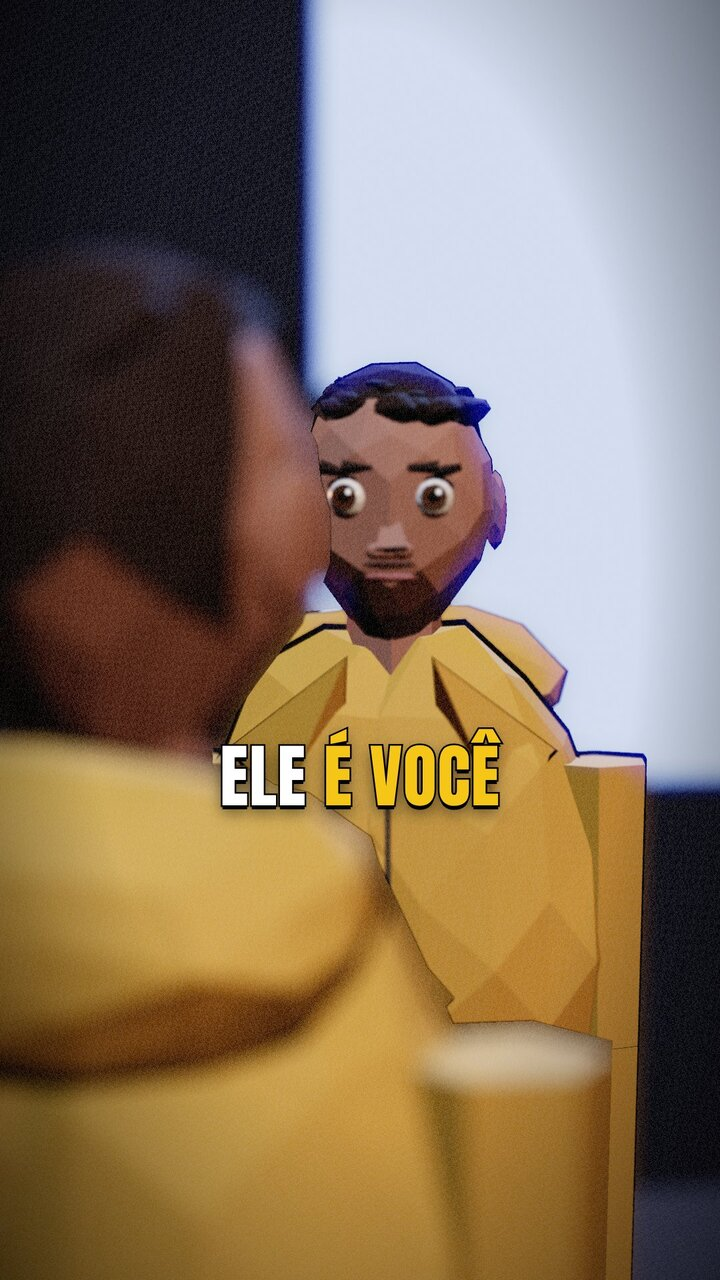
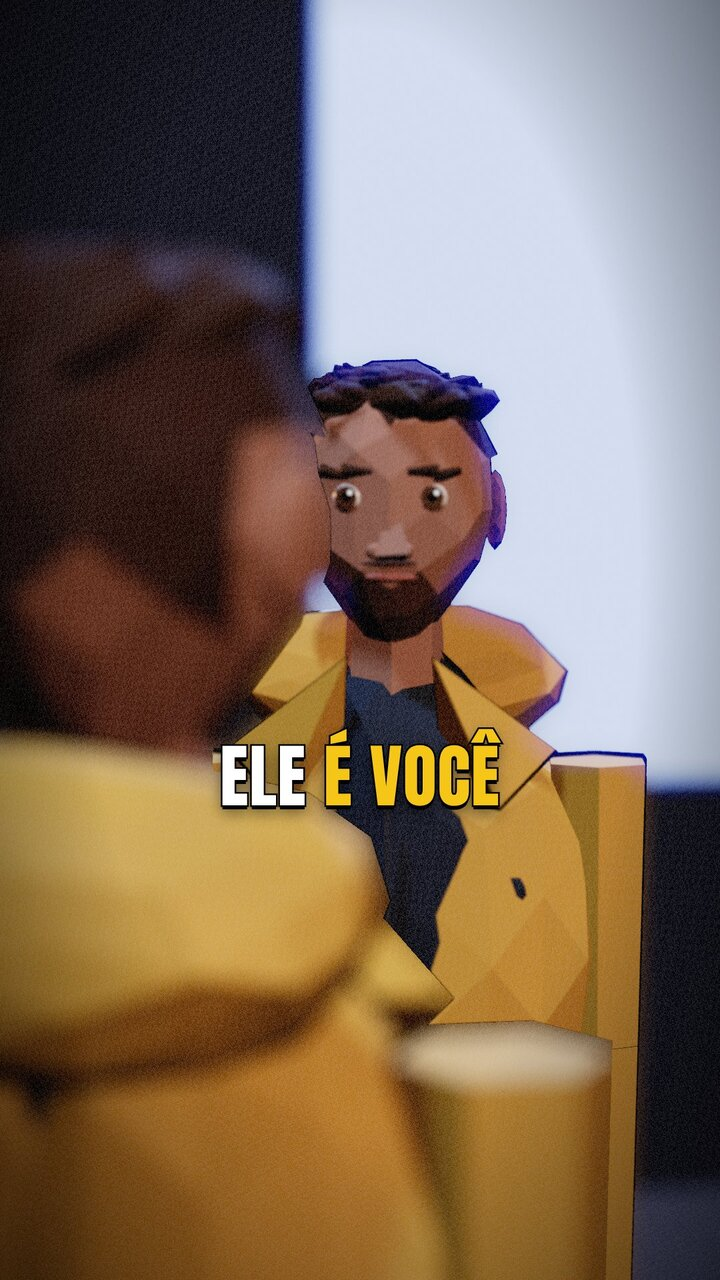
Prévia R11 final: facetas pintadas, sombras, rosto e mãos refeitos
Claude-Session: https://claude.ai/code/session_015xHWxAZ1U5ivbKZCPgUV8r

diff --git a/videos/_previa-r11/assets/lib/lowpoly.js b/videos/_previa-r11/assets/lib/lowpoly.js
@@ -3,14 +3,27 @@
 import * as THREE from "./three.module.js";
 
 export const COR = {
-  pele: 0xb07c62, peleSombra: 0x8a5a42, cabelo: 0x3a2618, barba: 0x4a3020,
+  pele: 0xb07c62, peleSombra: 0x8a5a42, cabelo: 0x4a2c18, barba: 0x3e2818,
   jaqueta: 0xd9a21e, camisa: 0x2c3442, jeans: 0x23324f, tenis: 0x1c1c22,
   esclera: 0xf2ede4, iris: 0x6b4423, pupila: 0x0d0805, contorno: 0x120c08,
 };
 
 export function mulberry32(a) { return () => { a |= 0; a = (a + 0x6d2b79f5) | 0; let t = Math.imul(a ^ (a >>> 15), 1 | a); t = (t + Math.imul(t ^ (t >>> 7), 61 | t)) ^ t; return ((t ^ (t >>> 14)) >>> 0) / 4294967296; }; }
 
-export const mat = (c, rough = 0.78, extra = {}) => new THREE.MeshStandardMaterial({ color: c, roughness: rough, metalness: 0, flatShading: true, ...extra });
+// facetas com variação de tom estável (hash da normal da faceta no espaço do objeto), como pintura
+function pintado(m, k = 0.16) {
+  m.onBeforeCompile = (sh) => {
+    sh.vertexShader = sh.vertexShader.replace("#include <common>", "#include <common>\nvarying vec3 vObj;").replace("#include <begin_vertex>", "#include <begin_vertex>\nvObj = position;");
+    sh.fragmentShader = sh.fragmentShader.replace("#include <common>", "#include <common>\nvarying vec3 vObj;")
+      .replace("#include <normal_fragment_maps>", `#include <normal_fragment_maps>
+        { vec3 fn = normalize(cross(dFdx(vObj), dFdy(vObj))); fn *= sign(fn.y + fn.x * 0.37 + fn.z * 0.11 + 1e-4);
+          float hz = fract(sin(dot(floor(fn * 9.0 + 0.5), vec3(12.9898, 78.233, 37.719))) * 43758.5453);
+          diffuseColor.rgb *= 1.0 + (hz - 0.5) * ${k.toFixed(3)}; }`);
+  };
+  m.customProgramCacheKey = () => "pintado" + k;
+  return m;
+}
+export const mat = (c, rough = 0.78, extra = {}) => pintado(new THREE.MeshStandardMaterial({ color: c, roughness: rough, metalness: 0, flatShading: true, ...extra }));
 const matContorno = new THREE.MeshBasicMaterial({ color: COR.contorno, side: THREE.BackSide });
 
 // casco invertido = traço de ilustração
@@ -38,7 +51,7 @@ const gauss = (d2, s) => Math.exp(-d2 / (s * s));
 function geoCranio(seed) {
   return facetado(2, (v) => {
     const { x, y, z } = v;
-    v.x *= 0.84; v.y *= 1.14; v.z *= 0.98;
+    v.x *= 0.83; v.y *= 1.16; v.z *= 0.98;
     if (y < -0.1) { const k = Math.min(1, (-y - 0.1) / 0.9); v.x *= 1 - 0.42 * k ** 1.1; if (z < 0.2) v.z *= 1 - 0.45 * k; }
     if (z > 0.55) v.z = 0.55 + (v.z - 0.55) * 0.6;                                           // rosto mais plano
     if (z > 0) {
@@ -70,20 +83,20 @@ function olhoR11(r, cIris = COR.iris, cPele = COR.pele) {
   sup.add(new THREE.Mesh(new THREE.SphereGeometry(r * 1.07, 12, 6, 0, Math.PI * 2, 0, Math.PI / 2), mat(cPele)));
   const cil = new THREE.Mesh(new THREE.TorusGeometry(r * 1.07, r * 0.09, 3, 14, Math.PI), new THREE.MeshBasicMaterial({ color: 0x140a06 }));
   cil.rotation.x = Math.PI / 2; sup.add(cil);
-  const inf = new THREE.Mesh(new THREE.SphereGeometry(r * 1.05, 12, 4, 0, Math.PI * 2, Math.PI * 0.72, Math.PI * 0.28), mat(cPele)); g.add(inf);
+  const inf = new THREE.Mesh(new THREE.SphereGeometry(r * 1.05, 12, 4, 0, Math.PI * 2, Math.PI * 0.62, Math.PI * 0.38), mat(cPele)); g.add(inf);
   return { g, globo, sup, olhar(ax, ay) { globo.rotation.set(-ay, ax, 0); }, abrir(k) { sup.rotation.x = -0.25 - 1.15 * k; } };
 }
 function cabecaR11({ seed, pele, cabelo, barba, iris = COR.iris }) {
   const H = new THREE.Group(), pm = mat(pele, 0.72);
   const cr = new THREE.Mesh(geoCranio(seed), pm); contorno(cr, 0.012); H.add(cr);
   // nariz: pirâmide com aresta para frente + asas
-  const nz = new THREE.Mesh(new THREE.ConeGeometry(0.17, 0.52, 4, 1), pm); nz.rotation.set(-0.32, Math.PI / 4, 0); nz.scale.set(0.9, 1, 1.25); nz.position.set(0, -0.08, 0.7); H.add(nz);
+  const nz = new THREE.Mesh(new THREE.ConeGeometry(0.17, 0.6, 4, 1), pm); nz.rotation.set(-0.3, Math.PI / 4, 0); nz.scale.set(0.85, 1, 1.4); nz.position.set(0, -0.1, 0.7); H.add(nz);
   for (const s of [1, -1]) { const a = new THREE.Mesh(facetado(1, () => {}, seed + s, 0.1), pm); a.scale.set(0.09, 0.07, 0.08); a.position.set(s * 0.11, -0.32, 0.74); H.add(a); }
   const narina = new THREE.Mesh(new THREE.BoxGeometry(0.2, 0.02, 0.06), new THREE.MeshBasicMaterial({ color: 0x3a1a10 })); narina.position.set(0, -0.37, 0.76); H.add(narina);
   // orelhas
   for (const s of [1, -1]) { const o = new THREE.Mesh(facetado(1, (v) => { v.x *= 0.35; v.y *= 1.35; v.z *= 0.9; }, seed + 9 + s), pm); contorno(o, 0.04); o.scale.setScalar(0.24); o.position.set(s * 0.83, 0.0, -0.08); o.rotation.y = s * 0.25; H.add(o); }
   // olhos
-  const olhos = [1, -1].map((s) => { const o = olhoR11(0.175, iris, pele); o.g.position.set(s * 0.33, 0.1, 0.64); o.g.rotation.y = s * 0.16; H.add(o.g); return o; });
+  const olhos = [1, -1].map((s) => { const o = olhoR11(0.15, iris, pele); o.g.position.set(s * 0.32, 0.1, 0.62); o.g.rotation.y = s * 0.16; H.add(o.g); return o; });
   // sobrancelhas grossas (2 prismas cada)
   const bm = mat(cabelo, 0.95), somb = [1, -1].map((s) => {
     const g = new THREE.Group(); g.position.set(s * 0.33, 0.36, 0.74); H.add(g);
@@ -93,24 +106,24 @@ function cabecaR11({ seed, pele, cabelo, barba, iris = COR.iris }) {
   });
   // boca: lábios + abertura + dentes
   const boca = new THREE.Group(); boca.position.set(0, -0.53, 0.72); H.add(boca);
-  const lab = new THREE.Mesh(facetado(1, () => {}, seed + 3, 0.1), mat(0xa8665a, 0.55)); lab.scale.set(0.19, 0.04, 0.055); boca.add(lab);
+  const lab = new THREE.Mesh(facetado(1, () => {}, seed + 3, 0.1), mat(0xb8705e, 0.5)); lab.scale.set(0.18, 0.045, 0.06); boca.add(lab);
   const abre = new THREE.Mesh(new THREE.CircleGeometry(1, 8), new THREE.MeshBasicMaterial({ color: 0x1e0806 })); abre.position.z = 0.072; boca.add(abre);
   const dentes = new THREE.Mesh(new THREE.BoxGeometry(0.22, 0.05, 0.02), mat(0xeee6d8, 0.4)); dentes.position.set(0, 0.03, 0.074); boca.add(dentes);
   // barba por fazer + bigode
   if (barba) {
     const bc = barba === true ? COR.barba : barba;
     const st = new THREE.Mesh(recorte(geoCranio(seed), (x, y, z) => z > -0.15 && y < -0.28 - 0.25 * Math.max(0, z - 0.3) + 0.0 && !(Math.abs(x) < 0.2 && y > -0.5 && y < -0.38), 1.012), mat(bc, 0.95, { transparent: true, opacity: 0.72 })); H.add(st);
-    const big = new THREE.Mesh(facetado(1, (v) => { v.y *= 0.25; }, seed + 5, 0.2), mat(bc, 0.95, { transparent: true, opacity: 0.85 })); big.scale.set(0.22, 0.13, 0.06); big.position.set(0, -0.43, 0.74); H.add(big);
+    const big = new THREE.Mesh(facetado(1, (v) => { v.y *= 0.25; }, seed + 5, 0.2), mat(bc, 0.95, { transparent: true, opacity: 0.85 })); big.scale.set(0.24, 0.1, 0.06); big.position.set(0, -0.42, 0.75); H.add(big);
   }
   // cabelo: casca acima da linha do cabelo + mechas facetadas
   const cm = mat(cabelo, 0.85);
-  const cap = new THREE.Mesh(recorte(geoCranio(seed), (x, y, z) => y > 0.5 + 0.2 * z - 0.1 * Math.abs(x) || (z < -0.3 && y > -0.4), 1.07), cm); contorno(cap, 0.015); H.add(cap);
+  const cap = new THREE.Mesh(recorte(geoCranio(seed), (x, y, z) => y > 0.36 + 0.24 * z - 0.12 * Math.abs(x) || (z < -0.3 && y > -0.45), 1.07), cm); contorno(cap, 0.015); H.add(cap);
   const rr = mulberry32(seed * 7 + 3);
-  for (let i = 0; i < 26; i++) {
-    const a = rr() * Math.PI * 2, rad = 0.15 + rr() * 0.6;
+  for (let i = 0; i < 34; i++) {
+    const a = rr() * Math.PI * 2, rad = 0.12 + rr() * 0.68;
     const m = new THREE.Mesh(facetado(1, (v) => { v.y *= 1.7; v.z *= 0.55; if (v.y > 0) { v.x *= 1 - v.y * 0.35; v.z *= 1 - v.y * 0.35; } }, seed + 60 + i, 0.25), cm); contorno(m, 0.04);
     const px = Math.cos(a) * rad * 0.85, pz = Math.sin(a) * rad * 0.85;
-    m.position.set(px, 1.02 - rad * 0.32, pz); m.scale.setScalar(0.2 + rr() * 0.06);
+    m.position.set(px, 1.08 - rad * 0.3, pz); m.scale.setScalar(0.23 + rr() * 0.07);
     m.rotation.set(1.25 + pz * 0.25 + rr() * 0.25, Math.atan2(px, pz) * 0.2 + (rr() - 0.5) * 0.5, -px * 0.7 + (rr() - 0.5) * 0.4); H.add(m);
   }
   function rosto(e, olhar) {
@@ -136,8 +149,8 @@ export function pessoa({ longo = false, seed = 1, pele = COR.pele, cabelo = COR.
   tor.scale.set(0.21, 0.24, 0.2); tor.position.y = 1.15; tronco.add(tor);
   const jm = mat(jaqueta, 0.7);
   for (const s of [1, -1]) {
-    const lado = contorno(new THREE.Mesh(facetado(2, (v) => { v.y *= 1.5; v.z *= 0.68; if (v.x * s < -0.25) v.x = -0.25 * s; }, seed + 30 + s, 0.09), jm), 0.02);
-    lado.scale.set(0.225, 0.25, 0.215); lado.position.set(s * 0.035, 1.14, -0.005); tronco.add(lado);
+    const lado = contorno(new THREE.Mesh(facetado(2, (v) => { v.y *= 1.5; v.z *= 0.62; if (v.x * s < -0.25) v.x = -0.25 * s; if (v.y > 0.8) v.y = 0.8 + (v.y - 0.8) * 0.5 - 0.12 * Math.abs(v.x); }, seed + 30 + s, 0.09), jm), 0.02);
+    lado.scale.set(0.215, 0.255, 0.2); lado.position.set(s * 0.035, 1.14, -0.005); tronco.add(lado);
     const gola = contorno(new THREE.Mesh(new THREE.ConeGeometry(0.07, 0.17, 4), jm), 0.04);
     gola.position.set(s * 0.085, 1.42, 0.08); gola.rotation.set(0.5, 0, s * 0.45); tronco.add(gola);
   }
@@ -149,7 +162,9 @@ export function pessoa({ longo = false, seed = 1, pele = COR.pele, cabelo = COR.
     const sup = contorno(new THREE.Mesh(new THREE.CylinderGeometry(0.062, 0.055, 0.32, 6), jm), 0.04); sup.position.y = -0.16; om.add(sup);
     const cot = new THREE.Group(); cot.position.y = -0.32; om.add(cot);
     const inf = contorno(new THREE.Mesh(new THREE.CylinderGeometry(0.055, 0.048, 0.3, 6), jm), 0.04); inf.position.y = -0.15; cot.add(inf);
-    const mao = contorno(new THREE.Mesh(facetado(1, (v) => { v.y *= 1.3; v.z *= 0.6; }, seed + 50 + s, 0.15), mat(pele)), 0.05); mao.scale.setScalar(0.055); mao.position.y = -0.34; cot.add(mao);
+    const mao = contorno(new THREE.Mesh(facetado(1, (v) => { v.y *= 1.3; v.z *= 0.6; }, seed + 50 + s, 0.15), mat(pele)), 0.05); mao.scale.set(0.05, 0.05, 0.045); mao.position.y = -0.33; cot.add(mao);
+    for (let f = 0; f < 4; f++) { const d = contorno(new THREE.Mesh(new THREE.BoxGeometry(0.018, 0.07, 0.02), mat(pele)), 0.12); d.position.set((f - 1.5) * 0.02, -0.39, 0.01); d.rotation.x = 0.25; cot.add(d); }
+    const pol = contorno(new THREE.Mesh(new THREE.BoxGeometry(0.02, 0.055, 0.02), mat(pele)), 0.12); pol.position.set(-s * 0.035, -0.34, 0.025); pol.rotation.z = s * 0.6; cot.add(pol);
     return { om, cot, mao };
   });
   const pernas = [1, -1].map((s) => {
@@ -162,9 +177,9 @@ export function pessoa({ longo = false, seed = 1, pele = COR.pele, cabelo = COR.
   });
   if (!corpo) pernas.forEach((p) => (p.q.visible = false));
   const EM = {
-    calmo: { br: 0.0, by: 0.34, bo: [1, 0.3], ab: 0.7, ol: [0, 0.05] },
-    medo: { br: -0.28, by: 0.41, bo: [0.85, 1.2], ab: 0.86, ol: [0.1, 0.05] },
-    panico: { br: -0.42, by: 0.45, bo: [1.1, 2.4], ab: 1.12, ol: [0.3, 0.1] },
+    calmo: { br: 0.0, by: 0.31, bo: [1, 0.3], ab: 0.62, ol: [0, 0.05] },
+    medo: { br: -0.28, by: 0.38, bo: [0.85, 1.2], ab: 0.78, ol: [0.1, 0.05] },
+    panico: { br: -0.42, by: 0.42, bo: [1.1, 2.4], ab: 1.12, ol: [0.3, 0.1] },
     triste: { br: -0.32, by: 0.36, bo: [0.8, 0.4], ab: 0.5, ol: [0, -0.25] },
     foco: { br: 0.22, by: 0.31, bo: [0.8, 0.2], ab: 0.55, ol: [0, 0] },
   };
@@ -219,11 +234,13 @@ export function molecula(tipo = "N2", seed = 1, nuvem = 0.5) {
 export function palco(canvas, { fov = 32, fundo = 0x14100c, foco = 1.5, faixa = 1.2, desfoque = 14, grao = 0.05, sat = 0.9 } = {}) {
   const W = 1080, Hh = 1920;
   const r = new THREE.WebGLRenderer({ canvas, antialias: false, preserveDrawingBuffer: true });
+  r.shadowMap.enabled = true; r.shadowMap.type = THREE.PCFSoftShadowMap;
   r.setPixelRatio(1); r.setSize(W, Hh, false); r.toneMapping = THREE.ACESFilmicToneMapping; r.toneMappingExposure = 1.1; r.outputColorSpace = THREE.SRGBColorSpace;
   const S = new THREE.Scene(); S.background = new THREE.Color(fundo);
   const cam = new THREE.PerspectiveCamera(fov, W / Hh, 0.01, 400);
   const hemi = new THREE.HemisphereLight(0x9fb4d8, 0x2a1a10, 0.5); S.add(hemi);
   const fria = new THREE.DirectionalLight(0xa9c6ee, 2.6); fria.position.set(-1.2, 4, 1.2); S.add(fria);
+  fria.castShadow = true; fria.shadow.mapSize.set(2048, 2048); fria.shadow.bias = -0.0004; fria.shadow.normalBias = 0.01; fria.shadow.radius = 4; Object.assign(fria.shadow.camera, { left: -4, right: 4, top: 4, bottom: -4, near: 0.1, far: 20 });
   const quente = new THREE.DirectionalLight(0xffd2aa, 1.7); quente.position.set(1.2, 1.6, 3); S.add(quente);
   const rim = new THREE.DirectionalLight(0x8fb4ff, 2.4); rim.position.set(1.5, 1.5, -3); S.add(rim);
   const rim2 = new THREE.DirectionalLight(0xffa860, 1.2); rim2.position.set(-2, 0.5, -2.5); S.add(rim2);
@@ -256,7 +273,7 @@ export function palco(canvas, { fov = 32, fundo = 0x14100c, foco = 1.5, faixa = 
       }` });
   const quad = new THREE.Mesh(new THREE.PlaneGeometry(2, 2), pos); quad.frustumCulled = false;
   const S2 = new THREE.Scene(); S2.add(quad); const cam2 = new THREE.OrthographicCamera(-1, 1, 1, -1, 0, 1);
-  return { r, S, cam, hemi, fria, quente, rim, rim2, U, draw() { U.near.value = cam.near; U.far.value = cam.far; r.setRenderTarget(rt); r.render(S, cam); r.setRenderTarget(null); r.render(S2, cam2); } };
+  return { r, S, cam, hemi, fria, quente, rim, rim2, U, draw() { if (!this._s) { this._s = 1; S.traverse((o) => { if (o.isMesh && o.material && o.material.type !== "MeshBasicMaterial") { o.castShadow = o.material.side !== THREE.BackSide; o.receiveShadow = true; } }); } U.near.value = cam.near; U.far.value = cam.far; r.setRenderTarget(rt); r.render(S, cam); r.setRenderTarget(null); r.render(S2, cam2); } };
 }
 function olho(r) { const o = olhoR11(r); o.palp = o.sup.children[0]; return o; }
 

diff --git a/videos/_previa-r11/previa.html b/videos/_previa-r11/previa.html
@@ -21,7 +21,7 @@ canvas{position:absolute;inset:0;width:1080px;height:1920px}
 import * as THREE from "./assets/lib/three.module.js";
 import * as LP from "./assets/lib/lowpoly.js";
 const q = +(new URLSearchParams(location.search).get("c") || 1);
-const FOC = { 5: [2.75, 0.7, 30], 6: [2.7, 0.9, 26], 7: [3.4, 1.0, 26], 1: [1.25, 0.5, 30], 2: [2.4, 0.9, 26], 3: [3.7, 1.6, 22], 4: [4.0, 1.0, 24] }[q];
+const FOC = { 5: [2.75, 0.7, 30], 6: [2.7, 0.9, 26], 7: [3.4, 1.0, 26], 1: [1.38, 0.5, 30], 2: [2.4, 0.9, 26], 3: [3.7, 1.6, 22], 4: [4.0, 1.0, 24] }[q];
 const P = LP.palco(document.getElementById("c"), { foco: FOC[0], faixa: FOC[1], desfoque: FOC[2] });
 const { S, cam } = P, ui = document.getElementById("ui");
 const madeira = (w, h, d, c = 0x5b4a3a) => { const m = new THREE.Mesh(new THREE.BoxGeometry(w, h, d), LP.mat(c, 0.9)); return m; };
@@ -34,7 +34,7 @@ if (q === 1) { // pensamentos: close no rosto, olhando de lado, com medo
   for (let i = 0; i < 9; i++) { const o = LP.pessoa({ seed: 20 + i, jaqueta: [0x3d5a80, 0x7a3b3b, 0x4a6b4a, 0x6b5a7a][i % 4], cabelo: [0x1a1410, 0x5a3a20, 0x2a2a2a][i % 3], barba: i % 3 === 0 }); o.root.position.set(-2.4 + i * 0.6 + rr() * 0.2, 0, -2.5 - rr() * 2); o.root.rotation.y = (rr() - 0.5) * 1.5; S.add(o.root); }
   S.background = new THREE.Color(0x10141c); LP.bokeh(S, { n: 60, seed: 3, y: [0.5, 4], z: [-14, -4] });
   const metro = new THREE.Mesh(new THREE.BoxGeometry(12, 0.15, 0.4), LP.mat(0x3a4250)); metro.position.set(0, 2.6, -3.5); S.add(metro);
-  cam.fov = 26; cam.updateProjectionMatrix(); cam.position.set(0.3, 1.64, 1.25); cam.lookAt(0.02, 1.55, 0);
+  cam.fov = 26; cam.updateProjectionMatrix(); cam.position.set(0.22, 1.66, 1.4); cam.lookAt(0.02, 1.56, 0);
   ui.innerHTML = `<div class="leg">80 MIL <span class="y">PENSAMENTOS</span></div>
    <div class="tag" style="left:600px;top:330px">"ELA VAI LIGAR?"</div><div class="tag" style="left:70px;top:420px">"O ALUGUEL…"</div><div class="tag" style="left:640px;top:880px;opacity:.7">"ESQUECI O GÁS"</div>`;
 }
